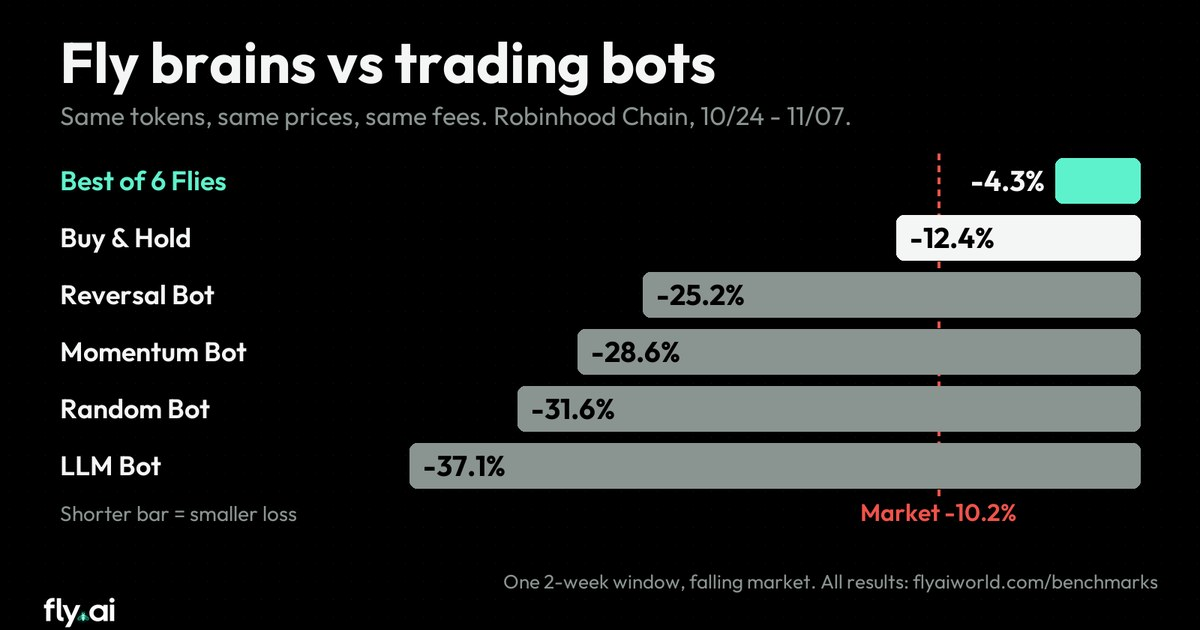
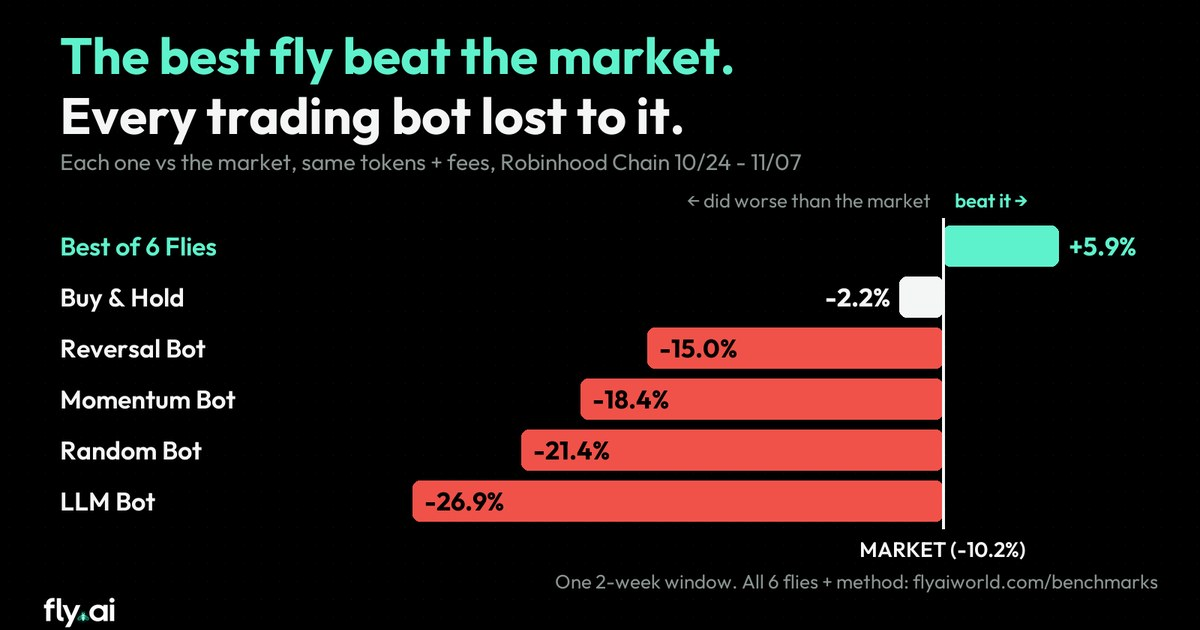
fix

diff --git a/docs/benchmarks.html b/docs/benchmarks.html
@@ -28,7 +28,29 @@
   .bench .card { margin-top: 18px; padding: 18px; }
   .bench h2 { margin: 0 0 12px; }
   .bench p { margin: 0 0 12px; }
-  .bench .shot { width: 100%; height: auto; border-radius: 14px; border: 1px solid var(--line); display: block; margin-top: 22px; }
+  /* the results as bars, measured against the market (no image: the user 2026-11-07; raw returns were all losses and
+     "it looks like ours is losing"). Axis -30..+10 points, the market line at 75%: right of it = beat the market. */
+  .bars { margin-top: 18px; padding: 22px 22px 14px; }
+  .bars .head, .bar { display: grid; grid-template-columns: minmax(110px, 180px) 1fr; align-items: center; gap: 14px; }
+  .bar { margin: 0 0 10px; }
+  .bars .head { font: 12px var(--mono); color: var(--dim); margin-bottom: 8px; }
+  .bars .head .track { height: auto; }
+  .bars .head .l { position: absolute; right: calc(25% + 8px); white-space: nowrap; }
+  .bars .head .r { position: absolute; left: calc(75% + 8px); color: var(--mint); white-space: nowrap; }
+  .bar .who { font-size: 15px; color: var(--text); }
+  .bar.fly .who { color: var(--mint); font-weight: 600; }
+  .track { position: relative; height: 30px; }
+  .track::after { content: ""; position: absolute; left: 75%; top: -5px; bottom: -5px; border-left: 2px solid var(--text); }
+  .bars .head .track::after { display: none; }
+  .bar .fill { position: absolute; top: 0; bottom: 0; border-radius: 6px; background: var(--red); }
+  .bar.fly .fill { background: var(--mint); }
+  .bar.hold .fill { background: #cfd6d3; }
+  .bar .val { position: absolute; top: 50%; transform: translateY(-50%); font: 600 14px var(--mono); white-space: nowrap; }
+  .bar .val.in { color: #000; }
+  .bar.fly .val { color: var(--mint); }
+  .bars .legend { font: 13px var(--mono); color: var(--dim); margin-top: 10px; }
+  .bars .legend b { color: var(--text); font-weight: 600; }
+  @media (max-width: 560px) { .bar, .bars .head { grid-template-columns: 1fr; gap: 4px; } .bars .head .who { display: none; } }
   .bench .tablewrap { overflow-x: auto; }
   .bench table.data { min-width: 520px; }
   .bench td.neg { color: var(--red); }
@@ -48,7 +70,6 @@
     <p class="eyebrow" data-i18n="benchmarks.head.eyebrow">Benchmarks</p>
     <h1 data-i18n="benchmarks.head.title">Fly brains vs trading bots</h1>
     <p class="lede" data-i18n="benchmarks.head.lede">We put real fruit-fly brains against trading bots on the same tokens, the same two weeks of real Robinhood Chain prices and the same costs. Every result is on this page, including the flies that lost.</p>
-    <img class="shot" src="assets/benchmarks/brain-vs-bots-1.png" alt="Bar chart: best of 6 flies -4.3%, buy and hold -12.4%, reversal bot -25.2%, momentum bot -28.6%, random bot -31.6%, LLM bot -37.1%, market -10.2%" width="1600" height="900">
   </div>
 </header>
 
@@ -57,6 +78,17 @@
     <p class="eyebrow" data-i18n="benchmarks.r1.eyebrow">Round 1 · Oct 24 – Nov 7, 2026</p>
     <h2 data-i18n="benchmarks.r1.h">The results</h2>
     <p class="lede" data-i18n="benchmarks.r1.lede">Everyone started with the same paper wallet and paid the same pool fee, price impact and gas on every trade. The market (every token held from its first price) fell 10.2%.</p>
+
+    <div class="card bars" role="img" aria-label="Each contestant compared with the market, which fell 10.2%: best of 6 flies beat it by 5.9 points; buy and hold did 2.2 points worse; the reversal, momentum, random and LLM bots did 15.0, 18.4, 21.4 and 26.9 points worse">
+      <div class="head"><span class="who"></span><span class="track"><span class="l" data-i18n="benchmarks.chart.left">&larr; did worse than the market</span><span class="r" data-i18n="benchmarks.chart.right">beat it &rarr;</span></span></div>
+        <div class="bar fly"><span class="who" data-i18n="benchmarks.r1.best">Best of 6 flies</span><span class="track"><span class="fill" style="left:75%;width:14.75%"></span><span class="val" style="left:calc(89.75% + 8px)">+5.9%</span></span></div>
+        <div class="bar hold"><span class="who" data-i18n="benchmarks.r1.hold">Buy &amp; hold</span><span class="track"><span class="fill" style="left:69.5%;width:5.5%"></span><span class="val" style="right:calc(30.5% + 8px)">-2.2%</span></span></div>
+        <div class="bar"><span class="who" data-i18n="benchmarks.r1.reversal">Reversal bot</span><span class="track"><span class="fill" style="left:37.5%;width:37.5%"></span><span class="val in" style="left:calc(37.5% + 8px)">-15.0%</span></span></div>
+        <div class="bar"><span class="who" data-i18n="benchmarks.r1.momentum">Momentum bot</span><span class="track"><span class="fill" style="left:29%;width:46%"></span><span class="val in" style="left:calc(29% + 8px)">-18.4%</span></span></div>
+        <div class="bar"><span class="who" data-i18n="benchmarks.r1.random">Random bot</span><span class="track"><span class="fill" style="left:21.5%;width:53.5%"></span><span class="val in" style="left:calc(21.5% + 8px)">-21.4%</span></span></div>
+        <div class="bar"><span class="who" data-i18n="benchmarks.r1.llm">LLM bot</span><span class="track"><span class="fill" style="left:7.75%;width:67.25%"></span><span class="val in" style="left:calc(7.75% + 8px)">-26.9%</span></span></div>
+      <div class="legend"><b data-i18n="benchmarks.chart.market">The line is the market (-10.2%)</b> · <span data-i18n="benchmarks.chart.how">each bar is a return minus the market's</span></div>
+    </div>
     <div class="card tablewrap">
       <table class="data">
         <thead><tr>
@@ -66,7 +98,7 @@
         </tr></thead>
         <tbody>
           <tr class="fly hi"><td data-i18n="benchmarks.r1.best">Best of 6 flies</td><td class="neg">-4.3%</td><td class="pos">+5.9</td><td>126 avg</td><td>~0.13% a fill</td></tr>
-          <tr><td data-i18n="benchmarks.r1.hold">Buy &amp; hold</td><td class="neg">-12.4%</td><td class="neg">-2.1</td><td>21</td><td>$9</td></tr>
+          <tr><td data-i18n="benchmarks.r1.hold">Buy &amp; hold</td><td class="neg">-12.4%</td><td class="neg">-2.2</td><td>21</td><td>$9</td></tr>
           <tr><td data-i18n="benchmarks.r1.reversal">Reversal bot</td><td class="neg">-25.2%</td><td class="neg">-15.0</td><td>87</td><td>$393</td></tr>
           <tr><td data-i18n="benchmarks.r1.momentum">Momentum bot</td><td class="neg">-28.6%</td><td class="neg">-18.4</td><td>103</td><td>$414</td></tr>
           <tr><td data-i18n="benchmarks.r1.random">Random bot</td><td class="neg">-31.6%</td><td class="neg">-21.4</td><td>141</td><td>$555</td></tr>
@@ -99,8 +131,8 @@
       <p data-i18n="benchmarks.shows.good_p">The best bot lost 25%; five of the six flies lost less than that, the best only 4.3%. The bots lost mostly to churn: rotating the wallet every 12 hours costs 0.3–1% a swap on these thin pools. The flies trade smaller, pay about 0.13% impact a fill, and sat out more of a falling market.</p>
     </div>
     <div class="finding bad">
-      <h3 data-i18n="benchmarks.shows.bad_h">The flies did not beat the market as a group</h3>
-      <p data-i18n="benchmarks.shows.bad_p">Half of them beat the market and half didn't, and the average fly did about as well as simply holding. A fly brain is not a money machine; on these two weeks it was a careful trader in a falling market.</p>
+      <h3 data-i18n="benchmarks.shows.bad_h">Not every fly beat the market</h3>
+      <p data-i18n="benchmarks.shows.bad_p">Three of the six flies beat the market and three lost more than it. Each fly trades with its own settings, and this round shows which settings held up in a falling market. Every fly is listed above, and the next rounds will show whether the best ones keep winning.</p>
     </div>
     <div class="finding bad">
       <h3 data-i18n="benchmarks.shows.llm_h">The LLM bot came last</h3>
